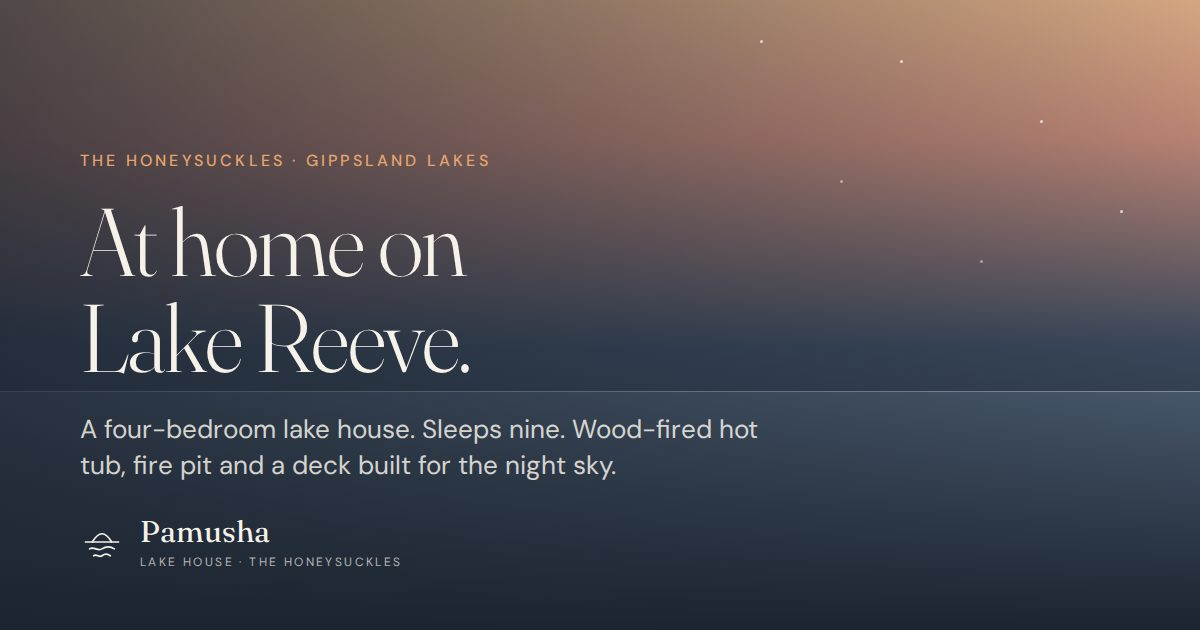
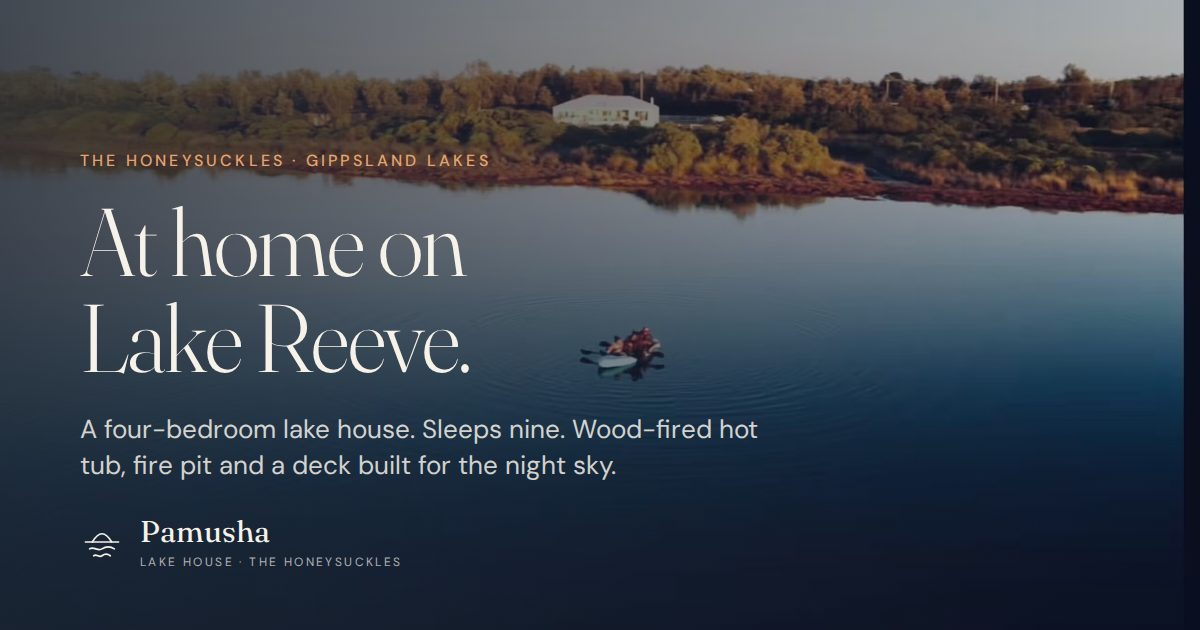
Pamusha site: add the real photography
41 listing photos converted to optimised JPEGs and mapped to every slot:
aerial lake hero, sunset deck, all bedrooms and bathrooms, kitchen, games
room, hot tub, fire pit, hanging chairs, beach and lake. Gallery expanded
to 32 tiles, social image regenerated from the hero, foosball and putting
green added to the games room copy and guide, hero image stacking fixed.

Claude-Session: https://claude.ai/code/session_01MBxXarvM7nYPwWmStvzgMS

diff --git a/pamusha-lake-house/the-house.html b/pamusha-lake-house/the-house.html
@@ -58,7 +58,7 @@
     <p class="lede" style="margin-top:1.5rem">Four bedrooms, two bathrooms, two living rooms and a long undercover deck, most of them facing the water. Built for nine, with the bush on one side and Lake Reeve on the other.</p>
   </div>
 </section>
-<div class="wrap reveal"><div class="frame frame--16x9 "><div class="art" data-scene="dusk" aria-hidden="true"></div><span class="visually-hidden">Wide view of the house and deck from the lake edge at dusk</span></div></div>
+<div class="wrap reveal"><div class="frame frame--16x9 "><div class="art" data-scene="dusk" aria-hidden="true"></div><img src="/assets/img/hero.jpg" alt="Aerial view of the house on the edge of Lake Reeve, a kayak crossing the still water" loading="lazy" decoding="async" width="1200" height="800" data-fallback></div></div>
 
 <section class="facts" style="margin-top:var(--s-6)" aria-label="At a glance">
   <div class="wrap">
@@ -80,7 +80,7 @@
     </div>
     <div class="stack" style="--s-3:5rem">
       <article class="split" id="primary" style="scroll-margin-top:6rem">
-  <div class="reveal"><div class="frame frame--3x2 "><div class="art" data-scene="bed" aria-hidden="true"></div><span class="visually-hidden">Primary bedroom with king bed, linen bedding and doors onto the deck</span></div></div>
+  <div class="reveal"><div class="frame frame--3x2 "><div class="art" data-scene="bed" aria-hidden="true"></div><img src="/assets/img/bed-1.jpg" alt="Primary bedroom with king bed, linen bedding and doors onto the deck" loading="lazy" decoding="async" width="1200" height="800" data-fallback></div></div>
   <div class="reveal" data-delay="1">
     <span class="card__meta">Sleeps 2 · King · Ensuite</span>
     <h3 style="margin-top:0.5rem">The primary suite</h3>
@@ -88,7 +88,7 @@
   </div>
 </article>
       <article class="split split--rev" id="queen-one" style="scroll-margin-top:6rem">
-  <div class="reveal"><div class="frame frame--3x2 "><div class="art" data-scene="bed" aria-hidden="true"></div><span class="visually-hidden">Second bedroom with a queen bed</span></div></div>
+  <div class="reveal"><div class="frame frame--3x2 "><div class="art" data-scene="bed" aria-hidden="true"></div><img src="/assets/img/bed-2.jpg" alt="Second bedroom with a queen bed" loading="lazy" decoding="async" width="1200" height="800" data-fallback></div></div>
   <div class="reveal" data-delay="1">
     <span class="card__meta">Sleeps 2 · Queen</span>
     <h3 style="margin-top:0.5rem">The lake room</h3>
@@ -96,7 +96,7 @@
   </div>
 </article>
       <article class="split" id="bunk" style="scroll-margin-top:6rem">
-  <div class="reveal"><div class="frame frame--3x2 "><div class="art" data-scene="bed" aria-hidden="true"></div><span class="visually-hidden">Bunk room with a queen mattress below and a king single above</span></div></div>
+  <div class="reveal"><div class="frame frame--3x2 "><div class="art" data-scene="bed" aria-hidden="true"></div><img src="/assets/img/bed-3.jpg" alt="Bunk room with a queen mattress below and a king single above" loading="lazy" decoding="async" width="1200" height="800" data-fallback></div></div>
   <div class="reveal" data-delay="1">
     <span class="card__meta">Sleeps 3 · Queen + king single bunk</span>
     <h3 style="margin-top:0.5rem">The bunk room</h3>
@@ -104,7 +104,7 @@
   </div>
 </article>
       <article class="split split--rev" id="queen-two" style="scroll-margin-top:6rem">
-  <div class="reveal"><div class="frame frame--3x2 "><div class="art" data-scene="bed" aria-hidden="true"></div><span class="visually-hidden">Fourth bedroom with a queen bed and a bushland outlook</span></div></div>
+  <div class="reveal"><div class="frame frame--3x2 "><div class="art" data-scene="bed" aria-hidden="true"></div><img src="/assets/img/bed-4.jpg" alt="Fourth bedroom with a queen bed and a bushland outlook" loading="lazy" decoding="async" width="1200" height="800" data-fallback></div></div>
   <div class="reveal" data-delay="1">
     <span class="card__meta">Sleeps 2 · Queen</span>
     <h3 style="margin-top:0.5rem">The garden room</h3>
@@ -125,25 +125,25 @@
     </div>
     <div class="grid grid--2">
       <div class="card reveal">
-        <div class="frame frame--3x2 "><div class="art" data-scene="kitchen" aria-hidden="true"></div><span class="visually-hidden">Open-plan kitchen with gas cooktop, island and dining table</span></div>
+        <div class="frame frame--3x2 "><div class="art" data-scene="kitchen" aria-hidden="true"></div><img src="/assets/img/kitchen.jpg" alt="Open-plan kitchen with gas cooktop, island and dining table" loading="lazy" decoding="async" width="1200" height="800" data-fallback></div>
         <h3>Kitchen &amp; main living</h3>
         <p>Open plan, with gas appliances, a capsule coffee machine, a dishwasher, and a French-door fridge plumbed for ice and filtered water. A wood-burning fireplace with its own fan warms the room in winter; air conditioning cools it in summer.</p>
         <ul class="chips"><li class="chip">Wood fireplace</li><li class="chip">Air conditioning</li><li class="chip">Gas cooktop</li><li class="chip">Dishwasher</li><li class="chip">Plumbed ice &amp; filtered water</li></ul>
       </div>
       <div class="card reveal" data-delay="1">
-        <div class="frame frame--3x2 "><div class="art" data-scene="interior" aria-hidden="true"></div><span class="visually-hidden">The games room with projector, table tennis table and tiki bar</span></div>
+        <div class="frame frame--3x2 "><div class="art" data-scene="interior" aria-hidden="true"></div><img src="/assets/img/games-room.jpg" alt="Dartboard in the games room" loading="lazy" decoding="async" width="1200" height="800" data-fallback></div>
         <h3>The games room &amp; tiki bar</h3>
-        <p>The second living room is the loud one: a ceiling projector for movie nights, a table tennis table, a pickleball set, darts, and a tiki bar with fairy lights and a Bluetooth speaker.</p>
-        <ul class="chips"><li class="chip">Projector</li><li class="chip">Table tennis</li><li class="chip">Pickleball</li><li class="chip">Darts</li><li class="chip">Tiki bar</li></ul>
+        <p>The second living room is the loud one: a ceiling projector for movie nights, table tennis, foosball, a putting green, darts, a pickleball set, and a tiki bar with fairy lights and a Bluetooth speaker.</p>
+        <ul class="chips"><li class="chip">Projector</li><li class="chip">Table tennis</li><li class="chip">Foosball</li><li class="chip">Putting green</li><li class="chip">Darts</li><li class="chip">Tiki bar</li></ul>
       </div>
       <div class="card reveal">
-        <div class="frame frame--3x2 "><div class="art" data-scene="bath" aria-hidden="true"></div><span class="visually-hidden">Main bathroom with a large freestanding bath and twin rainfall showers</span></div>
+        <div class="frame frame--3x2 "><div class="art" data-scene="bath" aria-hidden="true"></div><img src="/assets/img/bath-main.jpg" alt="Main bathroom with a large freestanding bath and twin rainfall showers" loading="lazy" decoding="async" width="1200" height="800" data-fallback></div>
         <h3>Main bathroom</h3>
         <p>A large freestanding bath, two rainfall showers and hand-held showers. A separate toilet sits next door so the bath is never on the critical path.</p>
         <ul class="chips"><li class="chip">Freestanding bath</li><li class="chip">Twin rainfall showers</li><li class="chip">Separate toilet</li></ul>
       </div>
       <div class="card reveal" data-delay="1">
-        <div class="frame frame--3x2 "><div class="art" data-scene="bath" aria-hidden="true"></div><span class="visually-hidden">The ensuite off the primary bedroom</span></div>
+        <div class="frame frame--3x2 "><div class="art" data-scene="bath" aria-hidden="true"></div><img src="/assets/img/bath-ensuite.jpg" alt="The ensuite off the primary bedroom" loading="lazy" decoding="async" width="1200" height="800" data-fallback></div>
         <h3>Ensuite</h3>
         <p>Off the primary suite: dual rainfall showers, hand-held showers, and enough bench for two.</p>
         <ul class="chips"><li class="chip">Dual rainfall showers</li><li class="chip">Walk-in robe</li></ul>
@@ -160,11 +160,11 @@
       <p class="lede">Everything outside is arranged around one idea: staying out later than you meant to.</p>
     </div>
     <div class="grid grid--five">
-      <div class="card reveal"><div class="frame frame--4x5 "><div class="art" data-scene="tub" aria-hidden="true"></div><span class="visually-hidden">Wood-fired hot tub beside Lake Reeve</span></div><h3>Wood-fired hot tub</h3><p>Seats eight. Light it after lunch and it's ready by dark. Tucked beside the lake, a few steps from the fire.</p></div>
-      <div class="card reveal" data-delay="1"><div class="frame frame--4x5 "><div class="art" data-scene="fire" aria-hidden="true"></div><span class="visually-hidden">Fire pit with seating under the stars</span></div><h3>Fire pit</h3><p>Connected to the hot tub and the swings, so the whole evening happens in one place.</p></div>
-      <div class="card reveal" data-delay="2"><div class="frame frame--4x5 "><div class="art" data-scene="night" aria-hidden="true"></div><span class="visually-hidden">Long-exposure night sky above the undercover deck</span></div><h3>The deck</h3><p>Large and undercover, facing the water, with a four-burner BBQ. Guests tell us it's the best seat in the house once the stars are out.</p></div>
-      <div class="card reveal"><div class="frame frame--3x2 "><div class="art" data-scene="dawn" aria-hidden="true"></div><span class="visually-hidden">Outdoor swings by the water at dawn</span></div><h3>Swings</h3><p>By the water, beside the fire pit. For kids first thing, and adults last thing.</p></div>
-      <div class="card reveal" data-delay="1"><div class="frame frame--3x2 "><div class="art" data-scene="bush" aria-hidden="true"></div><span class="visually-hidden">Native garden and bushland around the house</span></div><h3>Garden &amp; bush</h3><p>Garden and bushland on the edge of the Coastal Park. Kangaroos at the fence at dusk; keep an eye out for the yellow-tailed black cockatoos.</p></div>
+      <div class="card reveal"><div class="frame frame--4x5 "><div class="art" data-scene="tub" aria-hidden="true"></div><img src="/assets/img/hot-tub.jpg" alt="The wood-fired hot tub, full and sparkling" loading="lazy" decoding="async" width="1200" height="800" data-fallback></div><h3>Wood-fired hot tub</h3><p>Seats eight. Light it after lunch and it's ready by dark. Tucked beside the lake, a few steps from the fire.</p></div>
+      <div class="card reveal" data-delay="1"><div class="frame frame--4x5 "><div class="art" data-scene="fire" aria-hidden="true"></div><img src="/assets/img/fire-pit.jpg" alt="The fire pit roaring at night" loading="lazy" decoding="async" width="1200" height="800" data-fallback></div><h3>Fire pit</h3><p>Connected to the hot tub and the swings, so the whole evening happens in one place.</p></div>
+      <div class="card reveal" data-delay="2"><div class="frame frame--4x5 "><div class="art" data-scene="night" aria-hidden="true"></div><img src="/assets/img/night.jpg" alt="Red sunset over the Lake Reeve wetland from the deck" loading="lazy" decoding="async" width="1200" height="800" data-fallback></div><h3>The deck</h3><p>Large and undercover, facing the water, with a four-burner BBQ. Guests tell us it's the best seat in the house once the stars are out.</p></div>
+      <div class="card reveal"><div class="frame frame--3x2 "><div class="art" data-scene="dawn" aria-hidden="true"></div><img src="/assets/img/swings.jpg" alt="Hanging chairs and the fire pit beside the hot tub, lake behind" loading="lazy" decoding="async" width="1200" height="800" data-fallback></div><h3>Swings</h3><p>By the water, beside the fire pit. For kids first thing, and adults last thing.</p></div>
+      <div class="card reveal" data-delay="1"><div class="frame frame--3x2 "><div class="art" data-scene="bush" aria-hidden="true"></div><img src="/assets/img/garden.jpg" alt="Lawn and white fence under a blue sky" loading="lazy" decoding="async" width="1200" height="800" data-fallback></div><h3>Garden &amp; bush</h3><p>Garden and bushland on the edge of the Coastal Park. Kangaroos at the fence at dusk; keep an eye out for the yellow-tailed black cockatoos.</p></div>
     </div>
   </div>
 </section>
@@ -175,7 +175,7 @@
       <span class="eyebrow eyebrow--sage">Gallery</span>
       <h2 id="gal-title">A closer look.</h2>
     </div>
-    <div class="mosaic"><div class="frame frame--1x1 " data-lightbox data-caption="The deck and Lake Reeve at dusk" tabindex="0" role="button" aria-label="Open image: The deck and Lake Reeve at dusk"><div class="art" data-scene="dusk" aria-hidden="true"></div><span class="visually-hidden">The deck and Lake Reeve at dusk</span></div><div class="frame frame--1x1 " data-lightbox data-caption="Wood-fired hot tub beside the lake" tabindex="0" role="button" aria-label="Open image: Wood-fired hot tub beside the lake"><div class="art" data-scene="tub" aria-hidden="true"></div><span class="visually-hidden">Wood-fired hot tub beside the lake</span></div><div class="frame frame--1x1 " data-lightbox data-caption="Primary bedroom" tabindex="0" role="button" aria-label="Open image: Primary bedroom"><div class="art" data-scene="bed" aria-hidden="true"></div><span class="visually-hidden">Primary bedroom</span></div><div class="frame frame--1x1 " data-lightbox data-caption="Open-plan kitchen" tabindex="0" role="button" aria-label="Open image: Open-plan kitchen"><div class="art" data-scene="kitchen" aria-hidden="true"></div><span class="visually-hidden">Open-plan kitchen</span></div><div class="frame frame--1x1 " data-lightbox data-caption="Main bathroom with freestanding bath" tabindex="0" role="button" aria-label="Open image: Main bathroom with freestanding bath"><div class="art" data-scene="bath" aria-hidden="true"></div><span class="visually-hidden">Main bathroom with freestanding bath</span></div><div class="frame frame--1x1 " data-lightbox data-caption="Fire pit at night" tabindex="0" role="button" aria-label="Open image: Fire pit at night"><div class="art" data-scene="fire" aria-hidden="true"></div><span class="visually-hidden">Fire pit at night</span></div><div class="frame frame--1x1 " data-lightbox data-caption="The games room and tiki bar" tabindex="0" role="button" aria-label="Open image: The games room and tiki bar"><div class="art" data-scene="interior" aria-hidden="true"></div><span class="visually-hidden">The games room and tiki bar</span></div><div class="frame frame--1x1 " data-lightbox data-caption="Lake Reeve in the morning" tabindex="0" role="button" aria-label="Open image: Lake Reeve in the morning"><div class="art" data-scene="lake" aria-hidden="true"></div><span class="visually-hidden">Lake Reeve in the morning</span></div><div class="frame frame--1x1 " data-lightbox data-caption="Kangaroos in the bushland at dusk" tabindex="0" role="button" aria-label="Open image: Kangaroos in the bushland at dusk"><div class="art" data-scene="bush" aria-hidden="true"></div><span class="visually-hidden">Kangaroos in the bushland at dusk</span></div><div class="frame frame--1x1 " data-lightbox data-caption="Ninety Mile Beach" tabindex="0" role="button" aria-label="Open image: Ninety Mile Beach"><div class="art" data-scene="beach" aria-hidden="true"></div><span class="visually-hidden">Ninety Mile Beach</span></div><div class="frame frame--1x1 " data-lightbox data-caption="Bunk room" tabindex="0" role="button" aria-label="Open image: Bunk room"><div class="art" data-scene="bed" aria-hidden="true"></div><span class="visually-hidden">Bunk room</span></div><div class="frame frame--1x1 " data-lightbox data-caption="Ensuite with twin rainfall showers" tabindex="0" role="button" aria-label="Open image: Ensuite with twin rainfall showers"><div class="art" data-scene="bath" aria-hidden="true"></div><span class="visually-hidden">Ensuite with twin rainfall showers</span></div><div class="frame frame--1x1 " data-lightbox data-caption="The night sky from the deck" tabindex="0" role="button" aria-label="Open image: The night sky from the deck"><div class="art" data-scene="night" aria-hidden="true"></div><span class="visually-hidden">The night sky from the deck</span></div><div class="frame frame--1x1 " data-lightbox data-caption="Queen bedroom" tabindex="0" role="button" aria-label="Open image: Queen bedroom"><div class="art" data-scene="bed" aria-hidden="true"></div><span class="visually-hidden">Queen bedroom</span></div><div class="frame frame--1x1 " data-lightbox data-caption="Swings by the water at dawn" tabindex="0" role="button" aria-label="Open image: Swings by the water at dawn"><div class="art" data-scene="dawn" aria-hidden="true"></div><span class="visually-hidden">Swings by the water at dawn</span></div><div class="frame frame--1x1 " data-lightbox data-caption="Garden bedroom" tabindex="0" role="button" aria-label="Open image: Garden bedroom"><div class="art" data-scene="bed" aria-hidden="true"></div><span class="visually-hidden">Garden bedroom</span></div></div>
+    <div class="mosaic"><div class="frame frame--1x1 " data-lightbox data-caption="Aerial view of the house on Lake Reeve" tabindex="0" role="button" aria-label="Open image: Aerial view of the house on Lake Reeve"><div class="art" data-scene="dusk" aria-hidden="true"></div><img src="/assets/img/hero.jpg" alt="Aerial view of the house on Lake Reeve" loading="lazy" decoding="async" width="1200" height="800" data-fallback></div><div class="frame frame--1x1 " data-lightbox data-caption="Two cocktails on the edge of the hot tub, lake beyond" tabindex="0" role="button" aria-label="Open image: Two cocktails on the edge of the hot tub, lake beyond"><div class="art" data-scene="tub" aria-hidden="true"></div><img src="/assets/img/cocktails.jpg" alt="Two cocktails on the edge of the hot tub, lake beyond" loading="lazy" decoding="async" width="1200" height="800" data-fallback></div><div class="frame frame--1x1 " data-lightbox data-caption="Primary bedroom" tabindex="0" role="button" aria-label="Open image: Primary bedroom"><div class="art" data-scene="bed" aria-hidden="true"></div><img src="/assets/img/bed-1.jpg" alt="Primary bedroom" loading="lazy" decoding="async" width="1200" height="800" data-fallback></div><div class="frame frame--1x1 " data-lightbox data-caption="Kitchen and dining" tabindex="0" role="button" aria-label="Open image: Kitchen and dining"><div class="art" data-scene="kitchen" aria-hidden="true"></div><img src="/assets/img/kitchen.jpg" alt="Kitchen and dining" loading="lazy" decoding="async" width="1200" height="800" data-fallback></div><div class="frame frame--1x1 " data-lightbox data-caption="Main bathroom with freestanding bath" tabindex="0" role="button" aria-label="Open image: Main bathroom with freestanding bath"><div class="art" data-scene="bath" aria-hidden="true"></div><img src="/assets/img/bath-main.jpg" alt="Main bathroom with freestanding bath" loading="lazy" decoding="async" width="1200" height="800" data-fallback></div><div class="frame frame--1x1 " data-lightbox data-caption="Fire pit at night" tabindex="0" role="button" aria-label="Open image: Fire pit at night"><div class="art" data-scene="fire" aria-hidden="true"></div><img src="/assets/img/fire-pit.jpg" alt="Fire pit at night" loading="lazy" decoding="async" width="1200" height="800" data-fallback></div><div class="frame frame--1x1 " data-lightbox data-caption="The wood fireplace" tabindex="0" role="button" aria-label="Open image: The wood fireplace"><div class="art" data-scene="interior" aria-hidden="true"></div><img src="/assets/img/fireplace.jpg" alt="The wood fireplace" loading="lazy" decoding="async" width="1200" height="800" data-fallback></div><div class="frame frame--1x1 " data-lightbox data-caption="Sunset paddle on Lake Reeve" tabindex="0" role="button" aria-label="Open image: Sunset paddle on Lake Reeve"><div class="art" data-scene="lake" aria-hidden="true"></div><img src="/assets/img/lake.jpg" alt="Sunset paddle on Lake Reeve" loading="lazy" decoding="async" width="1200" height="800" data-fallback></div><div class="frame frame--1x1 " data-lightbox data-caption="Footprints on Ninety Mile Beach" tabindex="0" role="button" aria-label="Open image: Footprints on Ninety Mile Beach"><div class="art" data-scene="beach" aria-hidden="true"></div><img src="/assets/img/beach-2.jpg" alt="Footprints on Ninety Mile Beach" loading="lazy" decoding="async" width="1200" height="800" data-fallback></div><div class="frame frame--1x1 " data-lightbox data-caption="Hanging chairs, fire pit and hot tub" tabindex="0" role="button" aria-label="Open image: Hanging chairs, fire pit and hot tub"><div class="art" data-scene="dawn" aria-hidden="true"></div><img src="/assets/img/swings.jpg" alt="Hanging chairs, fire pit and hot tub" loading="lazy" decoding="async" width="1200" height="800" data-fallback></div><div class="frame frame--1x1 " data-lightbox data-caption="Bunk room with play teepee" tabindex="0" role="button" aria-label="Open image: Bunk room with play teepee"><div class="art" data-scene="bed" aria-hidden="true"></div><img src="/assets/img/bed-3.jpg" alt="Bunk room with play teepee" loading="lazy" decoding="async" width="1200" height="800" data-fallback></div><div class="frame frame--1x1 " data-lightbox data-caption="Ensuite with twin rainfall showers" tabindex="0" role="button" aria-label="Open image: Ensuite with twin rainfall showers"><div class="art" data-scene="bath" aria-hidden="true"></div><img src="/assets/img/bath-ensuite.jpg" alt="Ensuite with twin rainfall showers" loading="lazy" decoding="async" width="1200" height="800" data-fallback></div><div class="frame frame--1x1 " data-lightbox data-caption="The tiki bar at sunset" tabindex="0" role="button" aria-label="Open image: The tiki bar at sunset"><div class="art" data-scene="interior" aria-hidden="true"></div><img src="/assets/img/tiki-bar.jpg" alt="The tiki bar at sunset" loading="lazy" decoding="async" width="1200" height="800" data-fallback></div><div class="frame frame--1x1 " data-lightbox data-caption="Queen bedroom" tabindex="0" role="button" aria-label="Open image: Queen bedroom"><div class="art" data-scene="bed" aria-hidden="true"></div><img src="/assets/img/bed-2.jpg" alt="Queen bedroom" loading="lazy" decoding="async" width="1200" height="800" data-fallback></div><div class="frame frame--1x1 " data-lightbox data-caption="Table tennis in the games room" tabindex="0" role="button" aria-label="Open image: Table tennis in the games room"><div class="art" data-scene="interior" aria-hidden="true"></div><img src="/assets/img/table-tennis.jpg" alt="Table tennis in the games room" loading="lazy" decoding="async" width="1200" height="800" data-fallback></div><div class="frame frame--1x1 " data-lightbox data-caption="Bedroom with day bed" tabindex="0" role="button" aria-label="Open image: Bedroom with day bed"><div class="art" data-scene="bed" aria-hidden="true"></div><img src="/assets/img/bed-4.jpg" alt="Bedroom with day bed" loading="lazy" decoding="async" width="1200" height="800" data-fallback></div><div class="frame frame--1x1 " data-lightbox data-caption="Living room with window seat" tabindex="0" role="button" aria-label="Open image: Living room with window seat"><div class="art" data-scene="interior" aria-hidden="true"></div><img src="/assets/img/living.jpg" alt="Living room with window seat" loading="lazy" decoding="async" width="1200" height="800" data-fallback></div><div class="frame frame--1x1 " data-lightbox data-caption="The wood-fired hot tub" tabindex="0" role="button" aria-label="Open image: The wood-fired hot tub"><div class="art" data-scene="tub" aria-hidden="true"></div><img src="/assets/img/hot-tub.jpg" alt="The wood-fired hot tub" loading="lazy" decoding="async" width="1200" height="800" data-fallback></div><div class="frame frame--1x1 " data-lightbox data-caption="Foosball table" tabindex="0" role="button" aria-label="Open image: Foosball table"><div class="art" data-scene="interior" aria-hidden="true"></div><img src="/assets/img/foosball.jpg" alt="Foosball table" loading="lazy" decoding="async" width="1200" height="800" data-fallback></div><div class="frame frame--1x1 " data-lightbox data-caption="Bath tray with candle" tabindex="0" role="button" aria-label="Open image: Bath tray with candle"><div class="art" data-scene="bath" aria-hidden="true"></div><img src="/assets/img/bath-tray.jpg" alt="Bath tray with candle" loading="lazy" decoding="async" width="1200" height="800" data-fallback></div><div class="frame frame--1x1 " data-lightbox data-caption="Kayaking the Lake Reeve wetland" tabindex="0" role="button" aria-label="Open image: Kayaking the Lake Reeve wetland"><div class="art" data-scene="lake" aria-hidden="true"></div><img src="/assets/img/wetland.jpg" alt="Kayaking the Lake Reeve wetland" loading="lazy" decoding="async" width="1200" height="800" data-fallback></div><div class="frame frame--1x1 " data-lightbox data-caption="Putting green in the games room" tabindex="0" role="button" aria-label="Open image: Putting green in the games room"><div class="art" data-scene="interior" aria-hidden="true"></div><img src="/assets/img/putting-green.jpg" alt="Putting green in the games room" loading="lazy" decoding="async" width="1200" height="800" data-fallback></div><div class="frame frame--1x1 " data-lightbox data-caption="Window seat looking into the bush" tabindex="0" role="button" aria-label="Open image: Window seat looking into the bush"><div class="art" data-scene="interior" aria-hidden="true"></div><img src="/assets/img/window-seat.jpg" alt="Window seat looking into the bush" loading="lazy" decoding="async" width="1200" height="800" data-fallback></div><div class="frame frame--1x1 " data-lightbox data-caption="Sunset from the deck" tabindex="0" role="button" aria-label="Open image: Sunset from the deck"><div class="art" data-scene="portrait" aria-hidden="true"></div><img src="/assets/img/deck.jpg" alt="Sunset from the deck" loading="lazy" decoding="async" width="1200" height="800" data-fallback></div><div class="frame frame--1x1 " data-lightbox data-caption="Bathroom vanity with brass tapware" tabindex="0" role="button" aria-label="Open image: Bathroom vanity with brass tapware"><div class="art" data-scene="bath" aria-hidden="true"></div><img src="/assets/img/vanity.jpg" alt="Bathroom vanity with brass tapware" loading="lazy" decoding="async" width="1200" height="800" data-fallback></div><div class="frame frame--1x1 " data-lightbox data-caption="Movie night on the projector" tabindex="0" role="button" aria-label="Open image: Movie night on the projector"><div class="art" data-scene="interior" aria-hidden="true"></div><img src="/assets/img/projector.jpg" alt="Movie night on the projector" loading="lazy" decoding="async" width="1200" height="800" data-fallback></div><div class="frame frame--1x1 " data-lightbox data-caption="Ninety Mile Beach through the dunes" tabindex="0" role="button" aria-label="Open image: Ninety Mile Beach through the dunes"><div class="art" data-scene="beach" aria-hidden="true"></div><img src="/assets/img/beach.jpg" alt="Ninety Mile Beach through the dunes" loading="lazy" decoding="async" width="1200" height="800" data-fallback></div><div class="frame frame--1x1 " data-lightbox data-caption="Lawn and white fence" tabindex="0" role="button" aria-label="Open image: Lawn and white fence"><div class="art" data-scene="bush" aria-hidden="true"></div><img src="/assets/img/garden.jpg" alt="Lawn and white fence" loading="lazy" decoding="async" width="1200" height="800" data-fallback></div><div class="frame frame--1x1 " data-lightbox data-caption="Queen bedroom with rattan bedhead" tabindex="0" role="button" aria-label="Open image: Queen bedroom with rattan bedhead"><div class="art" data-scene="bed" aria-hidden="true"></div><img src="/assets/img/bed-6.jpg" alt="Queen bedroom with rattan bedhead" loading="lazy" decoding="async" width="1200" height="800" data-fallback></div><div class="frame frame--1x1 " data-lightbox data-caption="Four-burner BBQ on the deck" tabindex="0" role="button" aria-label="Open image: Four-burner BBQ on the deck"><div class="art" data-scene="interior" aria-hidden="true"></div><img src="/assets/img/bbq.jpg" alt="Four-burner BBQ on the deck" loading="lazy" decoding="async" width="1200" height="800" data-fallback></div><div class="frame frame--1x1 " data-lightbox data-caption="Tiki bar with fairy lights" tabindex="0" role="button" aria-label="Open image: Tiki bar with fairy lights"><div class="art" data-scene="interior" aria-hidden="true"></div><img src="/assets/img/tiki-bar-2.jpg" alt="Tiki bar with fairy lights" loading="lazy" decoding="async" width="1200" height="800" data-fallback></div><div class="frame frame--1x1 " data-lightbox data-caption="Shower with brass fittings" tabindex="0" role="button" aria-label="Open image: Shower with brass fittings"><div class="art" data-scene="bath" aria-hidden="true"></div><img src="/assets/img/shower.jpg" alt="Shower with brass fittings" loading="lazy" decoding="async" width="1200" height="800" data-fallback></div></div>
   </div>
 </section>
 
@@ -185,7 +185,7 @@
     <div class="grid grid--4">
       <div><h3 style="font-size:1.1rem;margin-bottom:0.75rem">Kitchen</h3><ul class="soft" style="margin:0;padding-left:1.1em"><li>Gas cooktop</li><li>Capsule coffee machine</li><li>Dishwasher</li><li>French-door fridge, plumbed ice &amp; filtered water</li><li>Four-burner BBQ on the deck</li></ul></div>
       <div><h3 style="font-size:1.1rem;margin-bottom:0.75rem">Sleep &amp; bathe</h3><ul class="soft" style="margin:0;padding-left:1.1em"><li>King, 2 queens, triple bunk</li><li>Four rainfall showers in total</li><li>Freestanding bath</li><li>Separate toilet</li></ul></div>
-      <div><h3 style="font-size:1.1rem;margin-bottom:0.75rem">Play</h3><ul class="soft" style="margin:0;padding-left:1.1em"><li>8-seat wood-fired hot tub</li><li>Fire pit &amp; swings</li><li>Projector movie nights</li><li>Table tennis, pickleball, darts</li><li>Tiki bar with speaker</li></ul></div>
+      <div><h3 style="font-size:1.1rem;margin-bottom:0.75rem">Play</h3><ul class="soft" style="margin:0;padding-left:1.1em"><li>8-seat wood-fired hot tub</li><li>Fire pit &amp; swings</li><li>Projector movie nights</li><li>Table tennis, foosball, putting green</li><li>Darts &amp; pickleball</li><li>Tiki bar with speaker</li></ul></div>
       <div><h3 style="font-size:1.1rem;margin-bottom:0.75rem">Comfort</h3><ul class="soft" style="margin:0;padding-left:1.1em"><li>Free Wi-Fi</li><li>Wood fireplace &amp; air conditioning</li><li>Heaters in every bedroom</li><li>Laundry</li><li>Portacot &amp; fold-up desk</li><li>Garage</li></ul></div>
     </div>
   </div>

diff --git a/pamusha-lake-house/index.html b/pamusha-lake-house/index.html
@@ -56,7 +56,7 @@
 <section class="hero" aria-labelledby="hero-title">
   <div class="hero__media">
     <div class="art" data-scene="dusk" aria-hidden="true"></div>
-    <span class="visually-hidden">The deck at Pamusha Lake House looking over Lake Reeve at dusk</span>
+    <img src="/assets/img/hero.jpg" alt="The deck at Pamusha Lake House looking over Lake Reeve at dusk" fetchpriority="high" decoding="async" width="2400" height="1500" data-fallback>
   </div>
   <div class="wrap hero__content">
     <span class="eyebrow">The Honeysuckles · Gippsland Lakes · Victoria</span>
@@ -85,7 +85,7 @@
 <section class="section" aria-labelledby="story-title">
   <div class="wrap split">
     <div class="reveal">
-      <div class="frame frame--4x5 frame--arch"><div class="art" data-scene="portrait" aria-hidden="true"></div><span class="visually-hidden">Evening light across the water from the undercover deck</span></div>
+      <div class="frame frame--4x5 frame--arch"><div class="art" data-scene="portrait" aria-hidden="true"></div><img src="/assets/img/deck.jpg" alt="Sunset over Lake Reeve from the deck, a glass of wine on the table and the hot tub below" loading="lazy" decoding="async" width="1200" height="800" data-fallback></div>
     </div>
     <div class="reveal" data-delay="1">
       <span class="eyebrow">Our story</span>
@@ -111,40 +111,40 @@
     </div>
     <div class="grid grid--3">
       <a class="card reveal" href="/the-house#primary">
-        <div class="frame frame--3x2 "><div class="art" data-scene="bed" aria-hidden="true"></div><span class="visually-hidden">The primary bedroom with king bed and doors to the deck</span></div>
+        <div class="frame frame--3x2 "><div class="art" data-scene="bed" aria-hidden="true"></div><img src="/assets/img/bed-1.jpg" alt="The primary bedroom, king bed with a rust throw and a window onto the lake" loading="lazy" decoding="async" width="1200" height="800" data-fallback></div>
         <span class="card__meta">Sleeps 2 · King</span>
         <h3>The primary suite</h3>
         <p>King bed, walk-in robe, full ensuite with twin rainfall showers, and a parents' retreat that opens onto the deck.</p>
       </a>
       <a class="card reveal" data-delay="1" href="/the-house#queen-one">
-        <div class="frame frame--3x2 "><div class="art" data-scene="bed" aria-hidden="true"></div><span class="visually-hidden">Second bedroom with a queen bed</span></div>
+        <div class="frame frame--3x2 "><div class="art" data-scene="bed" aria-hidden="true"></div><img src="/assets/img/bed-2.jpg" alt="Queen bedroom with linen bedding and a timber bedhead" loading="lazy" decoding="async" width="1200" height="800" data-fallback></div>
         <span class="card__meta">Sleeps 2 · Queen</span>
         <h3>The lake room</h3>
         <p>A quiet queen room with soft light and space to unpack for a long stay.</p>
       </a>
       <a class="card reveal" data-delay="2" href="/the-house#bunk">
-        <div class="frame frame--3x2 "><div class="art" data-scene="bed" aria-hidden="true"></div><span class="visually-hidden">Bunk room with queen bed below and king single above</span></div>
+        <div class="frame frame--3x2 "><div class="art" data-scene="bed" aria-hidden="true"></div><img src="/assets/img/bed-3.jpg" alt="Bunk room with a queen below, king single above and a play teepee" loading="lazy" decoding="async" width="1200" height="800" data-fallback></div>
         <span class="card__meta">Sleeps 3 · Queen + king single</span>
         <h3>The bunk room</h3>
         <p>A triple bunk: queen mattress below, king single on top. For kids, cousins, or whoever draws the short straw.</p>
       </a>
       <a class="card reveal" href="/the-house#queen-two">
-        <div class="frame frame--3x2 "><div class="art" data-scene="bed" aria-hidden="true"></div><span class="visually-hidden">Fourth bedroom with queen bed</span></div>
+        <div class="frame frame--3x2 "><div class="art" data-scene="bed" aria-hidden="true"></div><img src="/assets/img/bed-4.jpg" alt="Bedroom with a queen bed, a day bed and woven wall baskets" loading="lazy" decoding="async" width="1200" height="800" data-fallback></div>
         <span class="card__meta">Sleeps 2 · Queen</span>
         <h3>The garden room</h3>
         <p>Queen bed, bushland outlook, and birdsong first thing in the morning.</p>
       </a>
       <a class="card reveal" data-delay="1" href="/the-house#living">
-        <div class="frame frame--3x2 "><div class="art" data-scene="kitchen" aria-hidden="true"></div><span class="visually-hidden">Open-plan kitchen and living room with gas cooktop and long table</span></div>
+        <div class="frame frame--3x2 "><div class="art" data-scene="kitchen" aria-hidden="true"></div><img src="/assets/img/kitchen.jpg" alt="Open-plan kitchen and dining room with a round table set for a meal" loading="lazy" decoding="async" width="1200" height="800" data-fallback></div>
         <span class="card__meta">Gas cooktop · Dishwasher · Ice &amp; filtered water</span>
         <h3>Kitchen &amp; living</h3>
         <p>Open plan, gas appliances, a French-door fridge with plumbed ice and filtered water. A table with room for everyone.</p>
       </a>
       <a class="card reveal" data-delay="2" href="/the-house#living">
-        <div class="frame frame--3x2 "><div class="art" data-scene="interior" aria-hidden="true"></div><span class="visually-hidden">The games room with projector screen, table tennis table and tiki bar</span></div>
-        <span class="card__meta">Projector · Table tennis · Pickleball · Darts</span>
+        <div class="frame frame--3x2 "><div class="art" data-scene="interior" aria-hidden="true"></div><img src="/assets/img/games-room.jpg" alt="Dartboard in the games room" loading="lazy" decoding="async" width="1200" height="800" data-fallback></div>
+        <span class="card__meta">Projector · Table tennis · Foosball · Putting green · Darts</span>
         <h3>The games room &amp; tiki bar</h3>
-        <p>A projector for movie nights, table tennis, pickleball, darts, and a tiki bar with fairy lights and a speaker. The second living room, and the loud one.</p>
+        <p>A projector for movie nights, table tennis, foosball, a putting green, darts and pickleball, plus a tiki bar with fairy lights and a speaker. The second living room, and the loud one.</p>
       </a>
     </div>
     <p style="margin-top:3rem"><a class="btn btn--ghost" href="/the-house">See every room and the gallery</a></p>
@@ -154,8 +154,8 @@
 <section class="section section--ink" aria-labelledby="fire-title">
   <div class="wrap split split--rev">
     <div class="grid grid--2 grid--pair reveal" style="align-items:end">
-      <div class="frame frame--3x4 "><div class="art" data-scene="tub" aria-hidden="true"></div><span class="visually-hidden">Steam rising from the wood-fired hot tub beside Lake Reeve at dusk</span></div>
-      <div class="frame frame--1x1 "><div class="art" data-scene="fire" aria-hidden="true"></div><span class="visually-hidden">Embers in the fire pit under a sky full of stars</span></div>
+      <div class="frame frame--3x4 "><div class="art" data-scene="tub" aria-hidden="true"></div><img src="/assets/img/hot-tub.jpg" alt="The wood-fired hot tub, full and sparkling, with the bush behind" loading="lazy" decoding="async" width="1200" height="800" data-fallback></div>
+      <div class="frame frame--1x1 "><div class="art" data-scene="fire" aria-hidden="true"></div><img src="/assets/img/fire-pit.jpg" alt="The fire pit roaring at night" loading="lazy" decoding="async" width="1200" height="800" data-fallback></div>
     </div>
     <div class="reveal" data-delay="1">
       <span class="eyebrow">Fire and stars</span>

diff --git a/pamusha-lake-house/explore.html b/pamusha-lake-house/explore.html
@@ -58,7 +58,7 @@
     <p class="lede" style="margin-top:1.5rem">Ninety miles of beach over the dune, a Ramsar wetland at the door, and the whole Gippsland Lakes Coastal Park to walk. Here's how we'd spend a week.</p>
   </div>
 </section>
-<div class="wrap reveal"><div class="frame frame--16x9 "><div class="art" data-scene="beach" aria-hidden="true"></div><span class="visually-hidden">Ninety Mile Beach at first light, surf rolling in</span></div></div>
+<div class="wrap reveal"><div class="frame frame--16x9 "><div class="art" data-scene="beach" aria-hidden="true"></div><img src="/assets/img/beach.jpg" alt="Ninety Mile Beach through the dune grass on a clear day" loading="lazy" decoding="async" width="1200" height="800" data-fallback></div></div>
 
 <section class="section section--tight" id="getting-here" aria-labelledby="gh-title">
   <div class="wrap split" style="align-items:start">
@@ -80,7 +80,7 @@
 
 <section class="section" id="beach" aria-labelledby="beach-title" style="scroll-margin-top:8rem">
   <div class="wrap split">
-    <div class="reveal"><div class="frame frame--4x5 frame--arch"><div class="art" data-scene="beach" aria-hidden="true"></div><span class="visually-hidden">Footprints along Ninety Mile Beach</span></div></div>
+    <div class="reveal"><div class="frame frame--4x5 frame--arch"><div class="art" data-scene="beach" aria-hidden="true"></div><img src="/assets/img/beach-2.jpg" alt="Footprints along Ninety Mile Beach" loading="lazy" decoding="async" width="1200" height="800" data-fallback></div></div>
     <div class="reveal" data-delay="1">
       <span class="eyebrow">Ninety Mile Beach</span>
       <h2 id="beach-title">Over the dune, and it's yours.</h2>
@@ -95,7 +95,7 @@
 
 <section class="section section--surface contour" id="lakes" aria-labelledby="lakes-title" style="scroll-margin-top:8rem">
   <div class="wrap split split--rev">
-    <div class="reveal"><div class="frame frame--4x5 "><div class="art" data-scene="lake" aria-hidden="true"></div><span class="visually-hidden">Still water on Lake Reeve with waterbirds</span></div></div>
+    <div class="reveal"><div class="frame frame--4x5 "><div class="art" data-scene="lake" aria-hidden="true"></div><img src="/assets/img/lake.jpg" alt="Kayaking on Lake Reeve at sunset" loading="lazy" decoding="async" width="1200" height="800" data-fallback></div></div>
     <div class="reveal" data-delay="1">
       <span class="eyebrow eyebrow--sage">Lake Reeve &amp; the Gippsland Lakes</span>
       <h2 id="lakes-title">A lake for birds, and for doing nothing.</h2>

diff --git a/pamusha-lake-house/house-manual.html b/pamusha-lake-house/house-manual.html
@@ -97,7 +97,7 @@
 <section class="manual-section" id="games" aria-labelledby="games-t">
   <h2 id="games-t">Games room &amp; bar</h2>
   <p class="soft" style="margin:-0.75rem 0 1.5rem;max-width:var(--prose)">Rainy day, or just a good night in.</p>
-  <div class="manual-grid"><div class="mcard  span-2"><h3>Movie night</h3><p>The projector is mounted in the games room. The remote is stored in the darts table. Point it up at the projector, turn the lights off, and settle in with the cushions and blankets.</p></div><div class="mcard "><h3>Table tennis</h3><p>Pull the silver safety pins on each side and unclip the top latch at the back. The table folds down on its own from there.</p></div><div class="mcard "><h3>Pickleball</h3><p>The pop-up net and paddles are in the corner of the games room. Find a flat spot, peg the net down, and play.</p></div><div class="mcard "><h3>Darts</h3><p>Darts and the scoreboard live at the darts table. Watch for anyone walking past the board.</p></div><div class="mcard "><h3>Tiki bar lights</h3><p>The fairy-light switch is a small round button on the top right of the tiki bar roof. Feel for it and press.</p></div></div>
+  <div class="manual-grid"><div class="mcard  span-2"><h3>Movie night</h3><p>The projector is mounted in the games room. The remote is stored in the darts table. Point it up at the projector, turn the lights off, and settle in with the cushions and blankets.</p></div><div class="mcard "><h3>Table tennis</h3><p>Pull the silver safety pins on each side and unclip the top latch at the back. The table folds down on its own from there.</p></div><div class="mcard "><h3>Pickleball</h3><p>The pop-up net and paddles are in the corner of the games room. Find a flat spot, peg the net down, and play.</p></div><div class="mcard "><h3>Darts</h3><p>Darts and the scoreboard live at the darts table. Watch for anyone walking past the board.</p></div><div class="mcard "><h3>Foosball &amp; putting green</h3><p>The foosball table and the putting green are ready to go. Putters and balls are with the green.</p></div><div class="mcard "><h3>Tiki bar lights</h3><p>The fairy-light switch is a small round button on the top right of the tiki bar roof. Feel for it and press.</p></div></div>
 </section>
 
 <section class="manual-section" id="hot-tub" aria-labelledby="hot-tub-t">

diff --git a/pamusha-lake-house/assets/css/main.css b/pamusha-lake-house/assets/css/main.css
@@ -150,7 +150,9 @@ strong { font-weight: 500; }
 .hero { position: relative; min-height: 100svh; display: grid; align-items: end; color: var(--linen); isolation: isolate; }
 .hero__media { position: absolute; inset: 0; z-index: -1; overflow: hidden; }
 .hero__media img, .hero__media .art { width: 100%; height: 100%; object-fit: cover; }
-.hero__media::after { content: ""; position: absolute; inset: 0; background: linear-gradient(to bottom, rgba(20, 26, 33, 0.55) 0%, rgba(20, 26, 33, 0) 28%), linear-gradient(to top, rgba(20, 26, 33, 0.78) 0%, rgba(20, 26, 33, 0.35) 45%, rgba(20, 26, 33, 0.15) 100%); }
+.hero__media img { position: absolute; inset: 0; z-index: 1; }
+.hero__media img.is-missing { opacity: 0; }
+.hero__media::after { content: ""; position: absolute; inset: 0; z-index: 2; background: linear-gradient(to bottom, rgba(20, 26, 33, 0.55) 0%, rgba(20, 26, 33, 0) 28%), linear-gradient(to top, rgba(20, 26, 33, 0.78) 0%, rgba(20, 26, 33, 0.35) 45%, rgba(20, 26, 33, 0.15) 100%); }
 .hero__content { position: relative; padding-block: clamp(6rem, 8vw, 9rem) clamp(3rem, 5vw, 5rem); display: grid; gap: 1.5rem; max-width: 46rem; }
 .hero__content .eyebrow { color: var(--apricot); }
 .hero__content h1 { color: var(--linen); }

diff --git a/pamusha-lake-house/README.md b/pamusha-lake-house/README.md
@@ -47,7 +47,7 @@ Domains, then point the domain's DNS (currently at GoDaddy) at Vercel.
 
 ## Add your photography
 
-Drop JPGs into `assets/img/` using these file names, then run
+Photos are in place (see `assets/img/manifest.json` for which original each slot came from). To swap one, drop a JPG over the same file name, then run
 `python3 docs/build/build.py` once so the pages pick them up (the build only
 emits an image tag for files that exist, so nothing 404s). Each slot shows
 designed placeholder art until then:
